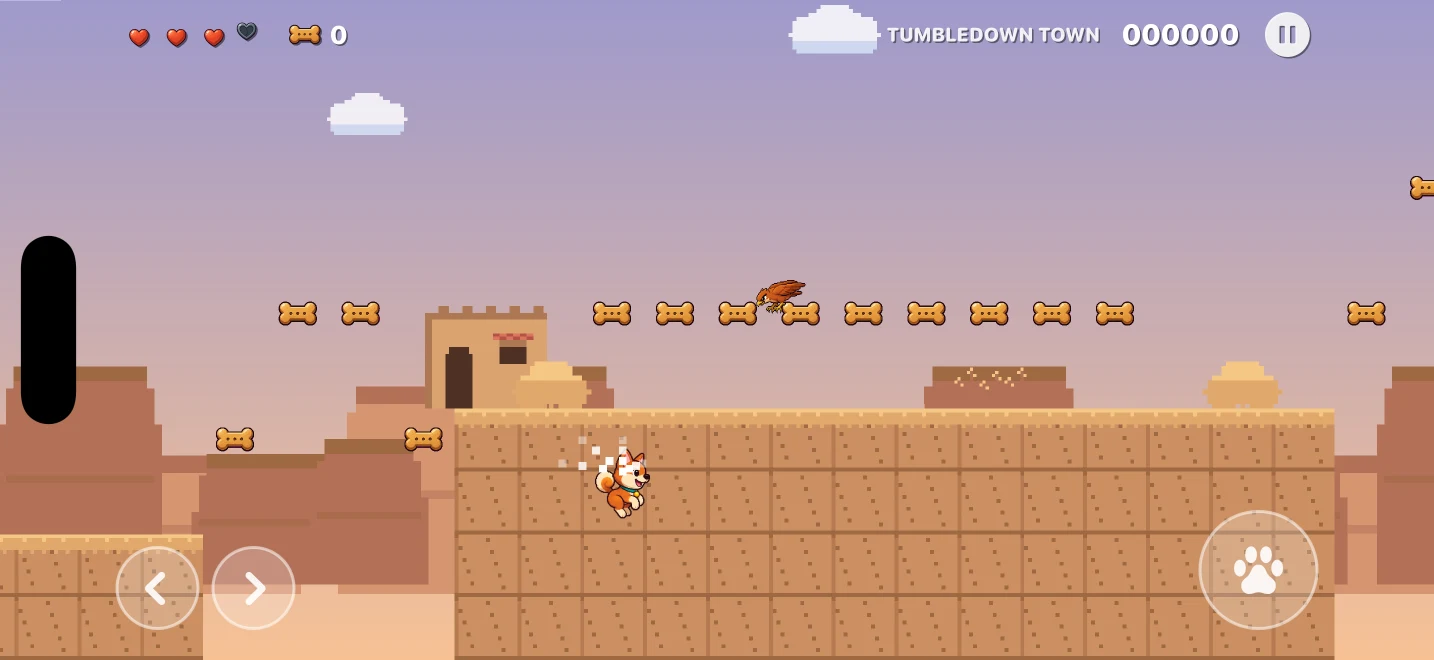
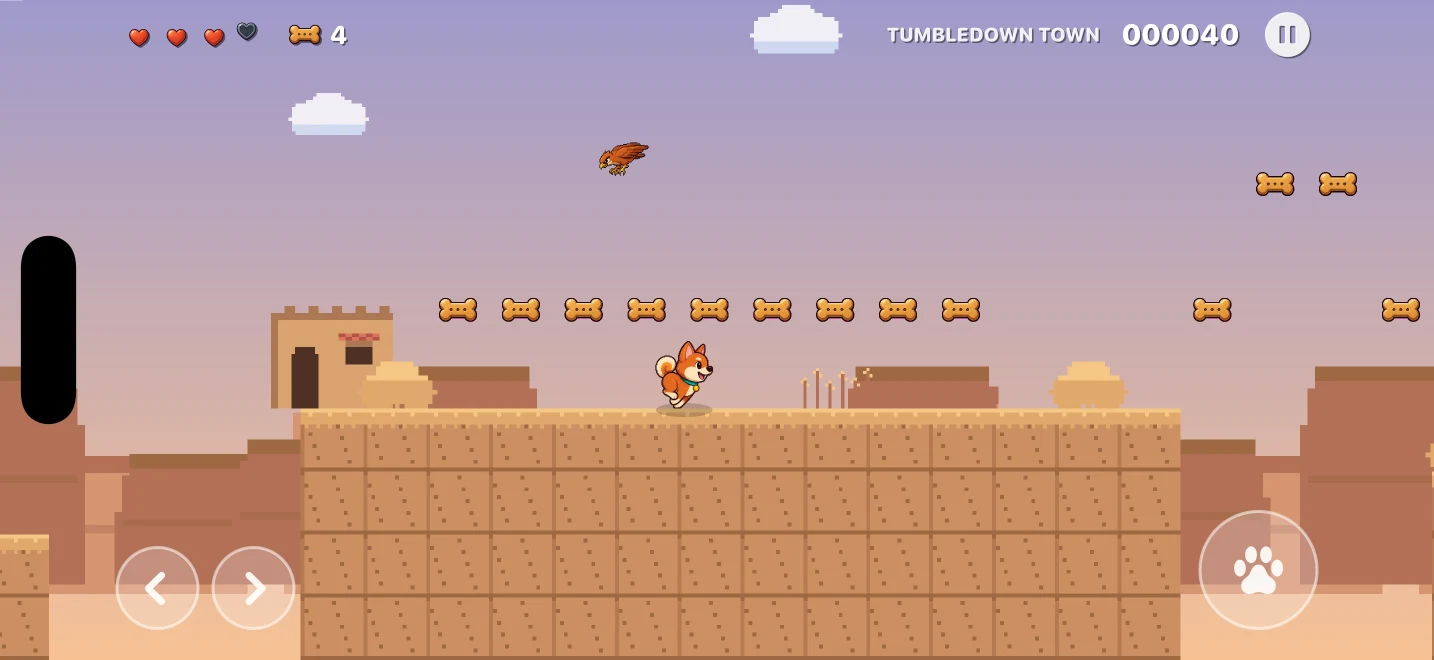
Use the new Tumbledown Town capture for Amber Highlands
Rebuilt from the updated app-store screenshot and re-described in the alt text,
which now matches what is actually on screen: the dusk rooftops, the biscuit
trail and the duneswooper overhead.

diff --git a/index.html b/index.html
@@ -194,7 +194,7 @@
       <div>
         <div class="region-tag" style="--tint:var(--amber)">Levels 11&ndash;20</div>
         <h3>Amber Highlands</h3>
-        <p>A desert town under a gold sky. Tumbleweeds roll with real gravity, off ledges,
+        <p>A desert town under a wide, changing sky. Tumbleweeds roll with real gravity, off ledges,
            into pits and straight at you, while duneswoopers circle overhead and dive at
            wherever you happen to be standing. By level 16 the ground erupts too.</p>
         <ul class="chips">
@@ -205,7 +205,7 @@
       </div>
       <figure class="shot" style="margin:0">
         <img src="assets/img/shots/03-amber-highlands.webp" width="1434" height="660" loading="lazy"
-             alt="The Amber Highlands desert town level with warm gold skies and adobe buildings.">
+             alt="Comet running the rooftops of Tumbledown Town under a dusk sky, a trail of biscuits overhead and a duneswooper circling above.">
       </figure>
     </div>
   </article>
